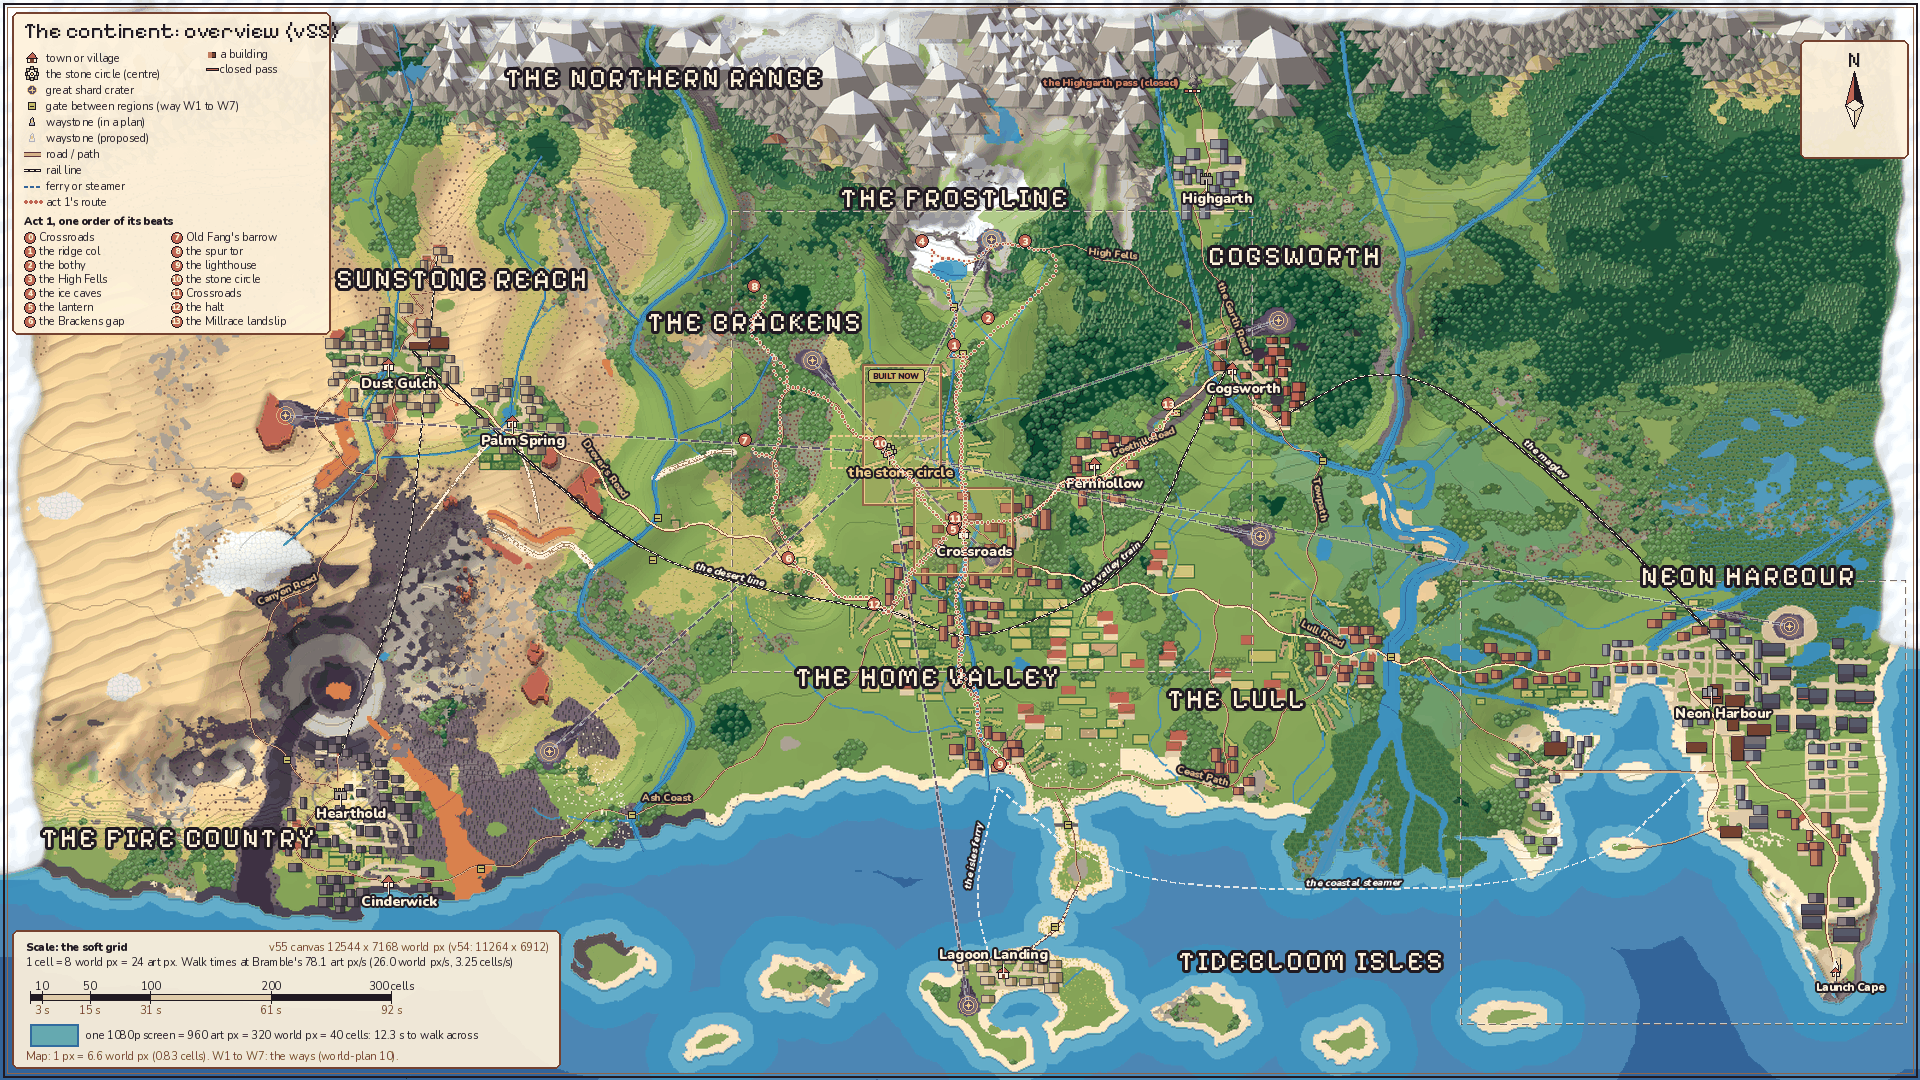
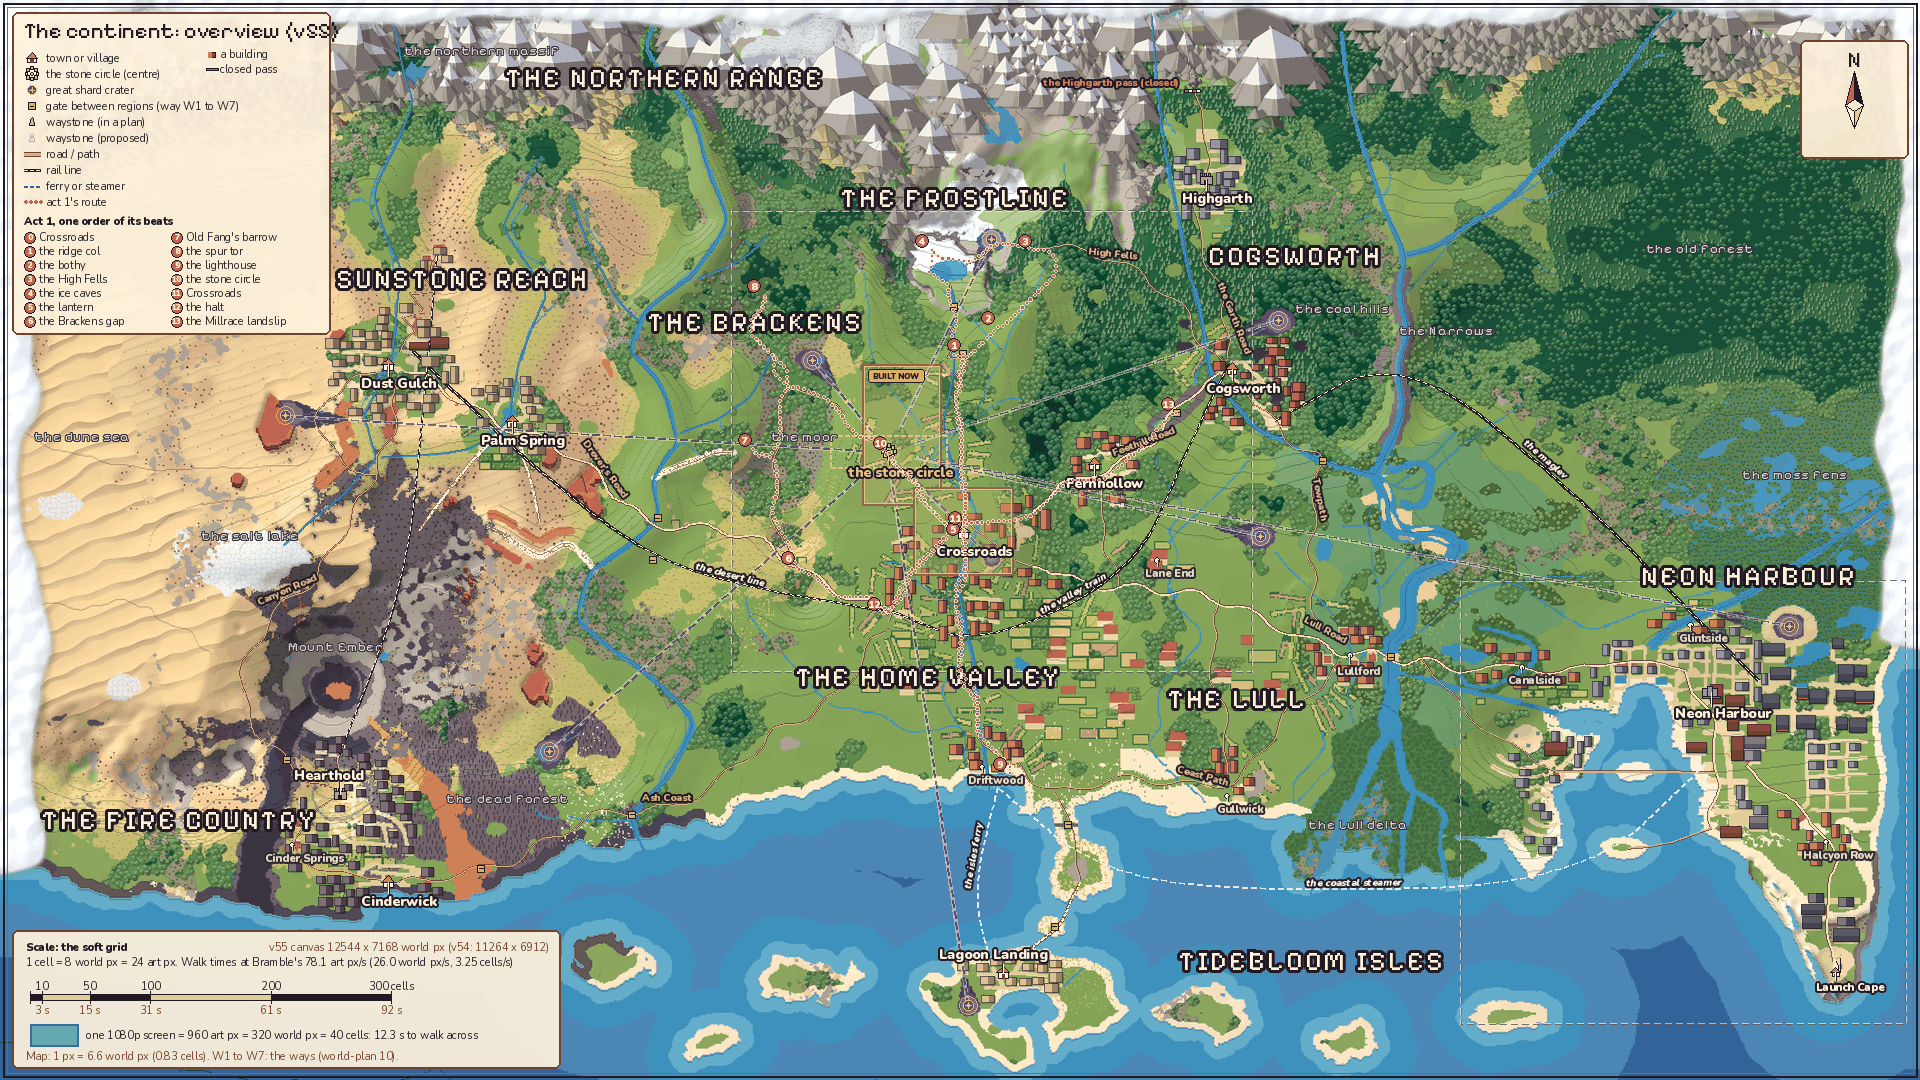
Continent map v55: square the label font's B, a quieter second label tier, one label per name
- The map's Pixelify labels drew the capital B like its G (TIDEGLOOM, HARGOUR); map55 now
  squares the B's stem when it draws a label (the game's font file is unchanged).
- The continent map shows a second, quieter tier: the edge regions and landmarks (the old
  forest, the moss fens, the dune sea, the salt lake, the dead forest, the moor, Mount Ember,
  the Lull delta, the southern sea, the northern massif, the coal hills, the Narrows) and the
  villages (Driftwood, Lullford, Gullwick, Cinder Springs, Lane End, Glintside, Canalside,
  Halcyon Row).
- Every name is placed once (Launch Cape and the Neon districts were doubled in the reference).
- Every v55 label checked against the names in docs/vision: no misspellings; the new names are
  v55's own (Highgarth, Eastgate, Bridgefoot and the farms).
- geo55: OLD_CACHE, an optional cache of v54's ground for development runs.

Claude-Session: https://claude.ai/code/session_01UudrmtYkicLNgZeuSjvjrK

diff --git a/docs/vision/research/blockout/map55.py b/docs/vision/research/blockout/map55.py
@@ -88,6 +88,57 @@ def features(S, M):
 M54.features = features                               # base_hi and the range drawing read the spurs too
 
 
+# ------------------------------------------------------------------------------------------ the label font's B
+# PixelifySans draws its capital B with rounded left corners, the same shape as its G and 8, so at map sizes "TIDEBLOOM"
+# reads "TIDEGLOOM" and "HARBOUR" "HARGOUR". The map squares the B's left side (a full-height stem), drawing over the
+# glyph; the game's font file is not changed.
+def _stem(font):
+    """The left stem of the font's B: (x offset, width) in px, measured from the glyph."""
+    key = (getattr(font, 'path', ''), font.size)
+    if key not in _STEM:
+        m = font.getmask('B'); w, h = m.size
+        arr = np.array(m, dtype=np.uint8).reshape(h, w) > 127
+        cols = arr[h // 2 - 1:h // 2 + 2].any(0) if h > 4 else arr.any(0)
+        x0 = int(np.argmax(cols)); x1 = x0
+        while x1 < w and cols[x1]:
+            x1 += 1
+        _STEM[key] = (x0, max(1, x1 - x0))
+    return _STEM[key]
+
+
+_STEM = {}
+_draw_text = Placer.draw_text
+
+
+def _draw_text_b(self, xy, text, font, fill, stroke_fill, anchor='mm', stroke=2, spacing=0):
+    _draw_text(self, xy, text, font, fill, stroke_fill, anchor, stroke, spacing)
+    if 'B' not in text or 'Pixelify' not in getattr(font, 'path', ''):
+        return
+    # where each B sits: the same advance as the drawing above
+    if spacing:
+        w = sum(self.d.textlength(ch, font=font) for ch in text) + spacing * (len(text) - 1)
+        x = xy[0] - w / 2 if anchor[0] == 'm' else (xy[0] if anchor[0] == 'l' else xy[0] - w)
+        starts = []
+        for ch in text:
+            starts.append(x); x += self.d.textlength(ch, font=font) + spacing
+        anc = 'lm'; ys = [xy[1]] * len(text)
+    else:
+        bb = self.d.textbbox(xy, text, font=font, anchor=anchor)
+        starts = [bb[0] + self.d.textlength(text[:i], font=font) for i in range(len(text))]; anc = 'lm'; ys = [(bb[1] + bb[3]) / 2] * len(text)
+    sx, sw = _stem(font)
+    for ch, x0, y in zip(text, starts, ys):
+        if ch != 'B':
+            continue
+        gb = self.d.textbbox((x0, y), 'B', font=font, anchor=anc)
+        l = gb[0] + sx - (self.d.textbbox((x0, y), 'B', font=font, anchor=anc)[0] - gb[0])
+        self.d.rectangle([l - stroke, gb[1] - stroke, l + sw - 1 + stroke, gb[3] - 1 + stroke], fill=stroke_fill)
+        _draw_text(self, (x0, y), 'B', font, fill, stroke_fill, anc, stroke, 0)
+        self.d.rectangle([l, gb[1], l + sw - 1, gb[3] - 1], fill=fill)
+
+
+Placer.draw_text = _draw_text_b
+
+
 # ------------------------------------------------------------------------------------------ one treatment for marks
 def tones(c):
     """Lit, middle and shade from one base colour (the three tones every mark uses)."""
@@ -383,7 +434,7 @@ def names(M):
     region += [('THE NORTHERN RANGE', 4300, 520)]
     biome = [(t, *Pr((x, y))) for t, x, y in M54.BIOME_NAMES]
     biome = [b for b in biome if b[0] not in ('the Heights',)]
-    biome += [('the upper Cog', 8200, 1500), ('Launch Cape', 12230, 6560), ('the east coast', 12440, 4720)]
+    biome += [('the upper Cog', 8200, 1500), ('the east coast', 12440, 4720)]
     small = [(nm, *Pr((x, y)), kind) for nm, x, y, kind in M54.SMALL_PLACES if nm not in ('the old town', 'the docks', 'new town', 'the Skyport', 'Gull Strand')]
     small += [('the rockfall', M.ROCKFALL[0] + 40, M.ROCKFALL[1], 'gate'), ('the slate quarry', 8120, 1110, 'place'), ('the folds', 7915, 900, 'place'),
               ('the Skyport', 10030, 4905, 'place'), ('the pad', M.PAD[0], M.PAD[1] + 40, 'place'), ("the Company's yard", 11780, 4159, 'place'),
@@ -399,6 +450,9 @@ def names(M):
 
 
 MAJOR = {'Crossroads', 'Dust Gulch', 'Palm Spring', 'Fernhollow', 'Cogsworth', 'Hearthold', 'Cinderwick', 'Lagoon Landing', 'Highgarth', 'Neon Harbour'}
+QUIET = ['the old forest', 'the moss fens', 'the dune sea', 'the salt lake', 'the dead forest', 'the moor', 'Mount Ember', 'the Lull delta',
+         'the southern sea', 'the northern massif', 'the coal hills', 'the Narrows']          # the continent map's second tier: edges, landmarks
+VILLAGES = ['Driftwood', 'Lullford', 'Gullwick', 'Cinder Springs', 'Lane End', 'Glintside', 'Canalside', 'Halcyon Row']
 MINOR_TOWNS = {'Driftwood', 'Lullford', 'Gullwick', 'Cinder Springs', 'the Lode', 'Ember forge', 'Launch Cape', 'Halcyon Row', 'Glintside', 'Canalside'}
 PRINCIPAL = {"Drover's Road", 'Lull Road', 'Ash Coast', 'Canyon Road', 'Foothill Road', 'the Garth Road', 'Coast Path', 'High Fells', 'Towpath'}
 
@@ -409,6 +463,16 @@ def labels55(S, M, R, ink, s, k, ox, oy, Wc, Hc, F, lines, reserved, mode='conti
     lay = Image.new('RGBA', (Wc, Hc), (0, 0, 0, 0)); d = ImageDraw.Draw(lay)
     P = lambda x, y: (x * k + ox, y * k + oy)
     pl = Placer(d, Wc, Hc)
+    _put = pl.put; done = set()
+
+    def put_once(xy, text, *a, **kw):                                # one label per name
+        if text in done:
+            return None
+        b = _put(xy, text, *a, **kw)
+        if b is not None:
+            done.add(text)
+        return b
+    pl.put = put_once
     cream, inkc = R['plaster'][5], ink
     full = mode == 'full'
     for b in reserved:
@@ -423,6 +487,12 @@ def labels55(S, M, R, ink, s, k, ox, oy, Wc, Hc, F, lines, reserved, mode='conti
             icons.append((nm, x, y, 'city' if nm == 'Neon Harbour' else ('hilltown' if kind in ('hilltown', 'castle') else 'town'), 'town', 1))
         elif full or nm in ('Launch Cape',):
             icons.append((nm, x, y, 'cape' if nm == 'Launch Cape' else 'village', 'town2', 1))
+        elif nm in VILLAGES:
+            icons.append((nm, x, y, 'place', 'village', 2))
+    if not full:
+        for x, y, nm in M.FARMS:
+            if nm in VILLAGES:
+                icons.append((nm, x, y, 'place', 'village', 2))
     icons.append(('the stone circle', M.CIRCLE[0], M.CIRCLE[1], 'circle', 'circle', 1))
     for nm, (x, y, r, region_, story) in M.CRATERS.items():
         if nm != 'the Crossroads crater':
@@ -484,7 +554,7 @@ def labels55(S, M, R, ink, s, k, ox, oy, Wc, Hc, F, lines, reserved, mode='conti
         pl.put((X, Y), t, F['region'], cream, inkc, [(0, 0, 'mm'), (0, -18 * s, 'mm'), (0, 18 * s, 'mm'), (40 * s, 0, 'mm'), (-40 * s, 0, 'mm'),
                                                      (90 * s, 30 * s, 'mm'), (-90 * s, 30 * s, 'mm'), (0, 50 * s, 'mm'), (160 * s, 40 * s, 'mm'), (0, -50 * s, 'mm')],
                stroke=int(3 * s), spacing=3 * s, pad=2 * s, name=t if box is None else False)
-    order = sorted(placed_icons, key=lambda p: (p[6], {'circle': -1, 'town': 0, 'closed': 0, 'town2': 1, 'district': 1, 'crater': 2, 'peak': 3, 'gate': 4,
+    order = sorted(placed_icons, key=lambda p: (p[6], {'circle': -1, 'town': 0, 'closed': 0, 'town2': 1, 'village': 1, 'district': 1, 'crater': 2, 'peak': 3, 'gate': 4,
                                                          'pass': 5, 'gate3': 6, 'place': 7, 'none': 9}[p[4]]))
 
     def name_icon(p, pad, leader):
@@ -496,6 +566,8 @@ def labels55(S, M, R, ink, s, k, ox, oy, Wc, Hc, F, lines, reserved, mode='conti
             font, fill = F['town'], cream
         elif cat == 'town2':
             font = F['place']
+        elif cat == 'village':
+            font, fill, st = F['place'], mix(R['plaster'][5], R['stone'][3], 0.25), mix(ink, R['stone'][1], 0.35)
         elif cat == 'district':
             font, fill = F['place'], R['brass'][5]
         elif cat == 'circle':
@@ -513,6 +585,14 @@ def labels55(S, M, R, ink, s, k, ox, oy, Wc, Hc, F, lines, reserved, mode='conti
     for p in order:
         if p[6] == 1:
             name_icon(p, 1, [p[3] + 14 * s, p[3] + 24 * s, p[3] + 36 * s])
+    if not full:                                                     # the quieter second tier: edges and landmarks
+        qf = F['quiet']; qfill = mix(R['snow'][5], R['stone'][3], 0.3); qst = mix(ink, R['stone'][1], 0.45)
+        for t, x, y in biome:
+            if t in QUIET:
+                X, Y = P(x, y)
+                pl.put((X, Y), t, qf, qfill, qst, [(0, 0, 'mm'), (0, -12 * s, 'mm'), (0, 12 * s, 'mm'), (30 * s, 0, 'mm'), (-30 * s, 0, 'mm'),
+                                                   (0, -24 * s, 'mm'), (0, 24 * s, 'mm'), (60 * s, 0, 'mm'), (-60 * s, 0, 'mm')],
+                       stroke=max(1, int(1.5 * s)), spacing=1 * s, pad=1 * s, name=False)
     if full:
         for t, x, y in biome:
             X, Y = P(x, y)
@@ -595,6 +675,7 @@ def frame_fit(Wc, Hc, s):
 
 def compose(S, M, R, ink, s, base, k, ox, oy, Wc, Hc, paths, lines, mode, title, panels_on=True, box=None, act=True):
     F = M54.fonts54(M.ROOT, s)
+    F['quiet'] = ImageFont.truetype(os.path.join(M.ROOT, 'game', 'ui', 'fonts', 'PixelifySans-Regular.ttf'), int(round(13 * s)))
     canvas = Image.new('RGB', (Wc, Hc), R['snow'][3])
     px0, py0 = (0, 0) if box is not None else (int(round(ox)), int(round(oy)))     # an inset's base is already cut to its box
     canvas.paste(base, (px0, py0))

diff --git a/docs/vision/research/blockout/geo55.py b/docs/vision/research/blockout/geo55.py
@@ -739,7 +739,13 @@ def usable(T):
 
 def data_stage():
     V.SUF = SUF
-    T, obs, pocks = stage_old()
+    cache = os.environ.get('OLD_CACHE')                              # a development cache of v54's ground (deterministic)
+    if cache and os.path.exists(cache):
+        D = pickle.load(open(cache, 'rb')); T, obs, pocks = D['T'], D['obs'], D['pocks']; g.WAYS.clear(); g.WAYS.update(D['WAYS']); g.FRAME = T['FRAME']
+    else:
+        T, obs, pocks = stage_old()
+        if cache:
+            pickle.dump({'T': T, 'obs': obs, 'pocks': pocks, 'WAYS': g.WAYS}, open(cache, 'wb'), protocol=4)
     u54 = usable(T)
     T, obs, pocks = warp_T(T, obs, pocks)
     warp_tables(); set_dims(NEW_W, NEW_H)
